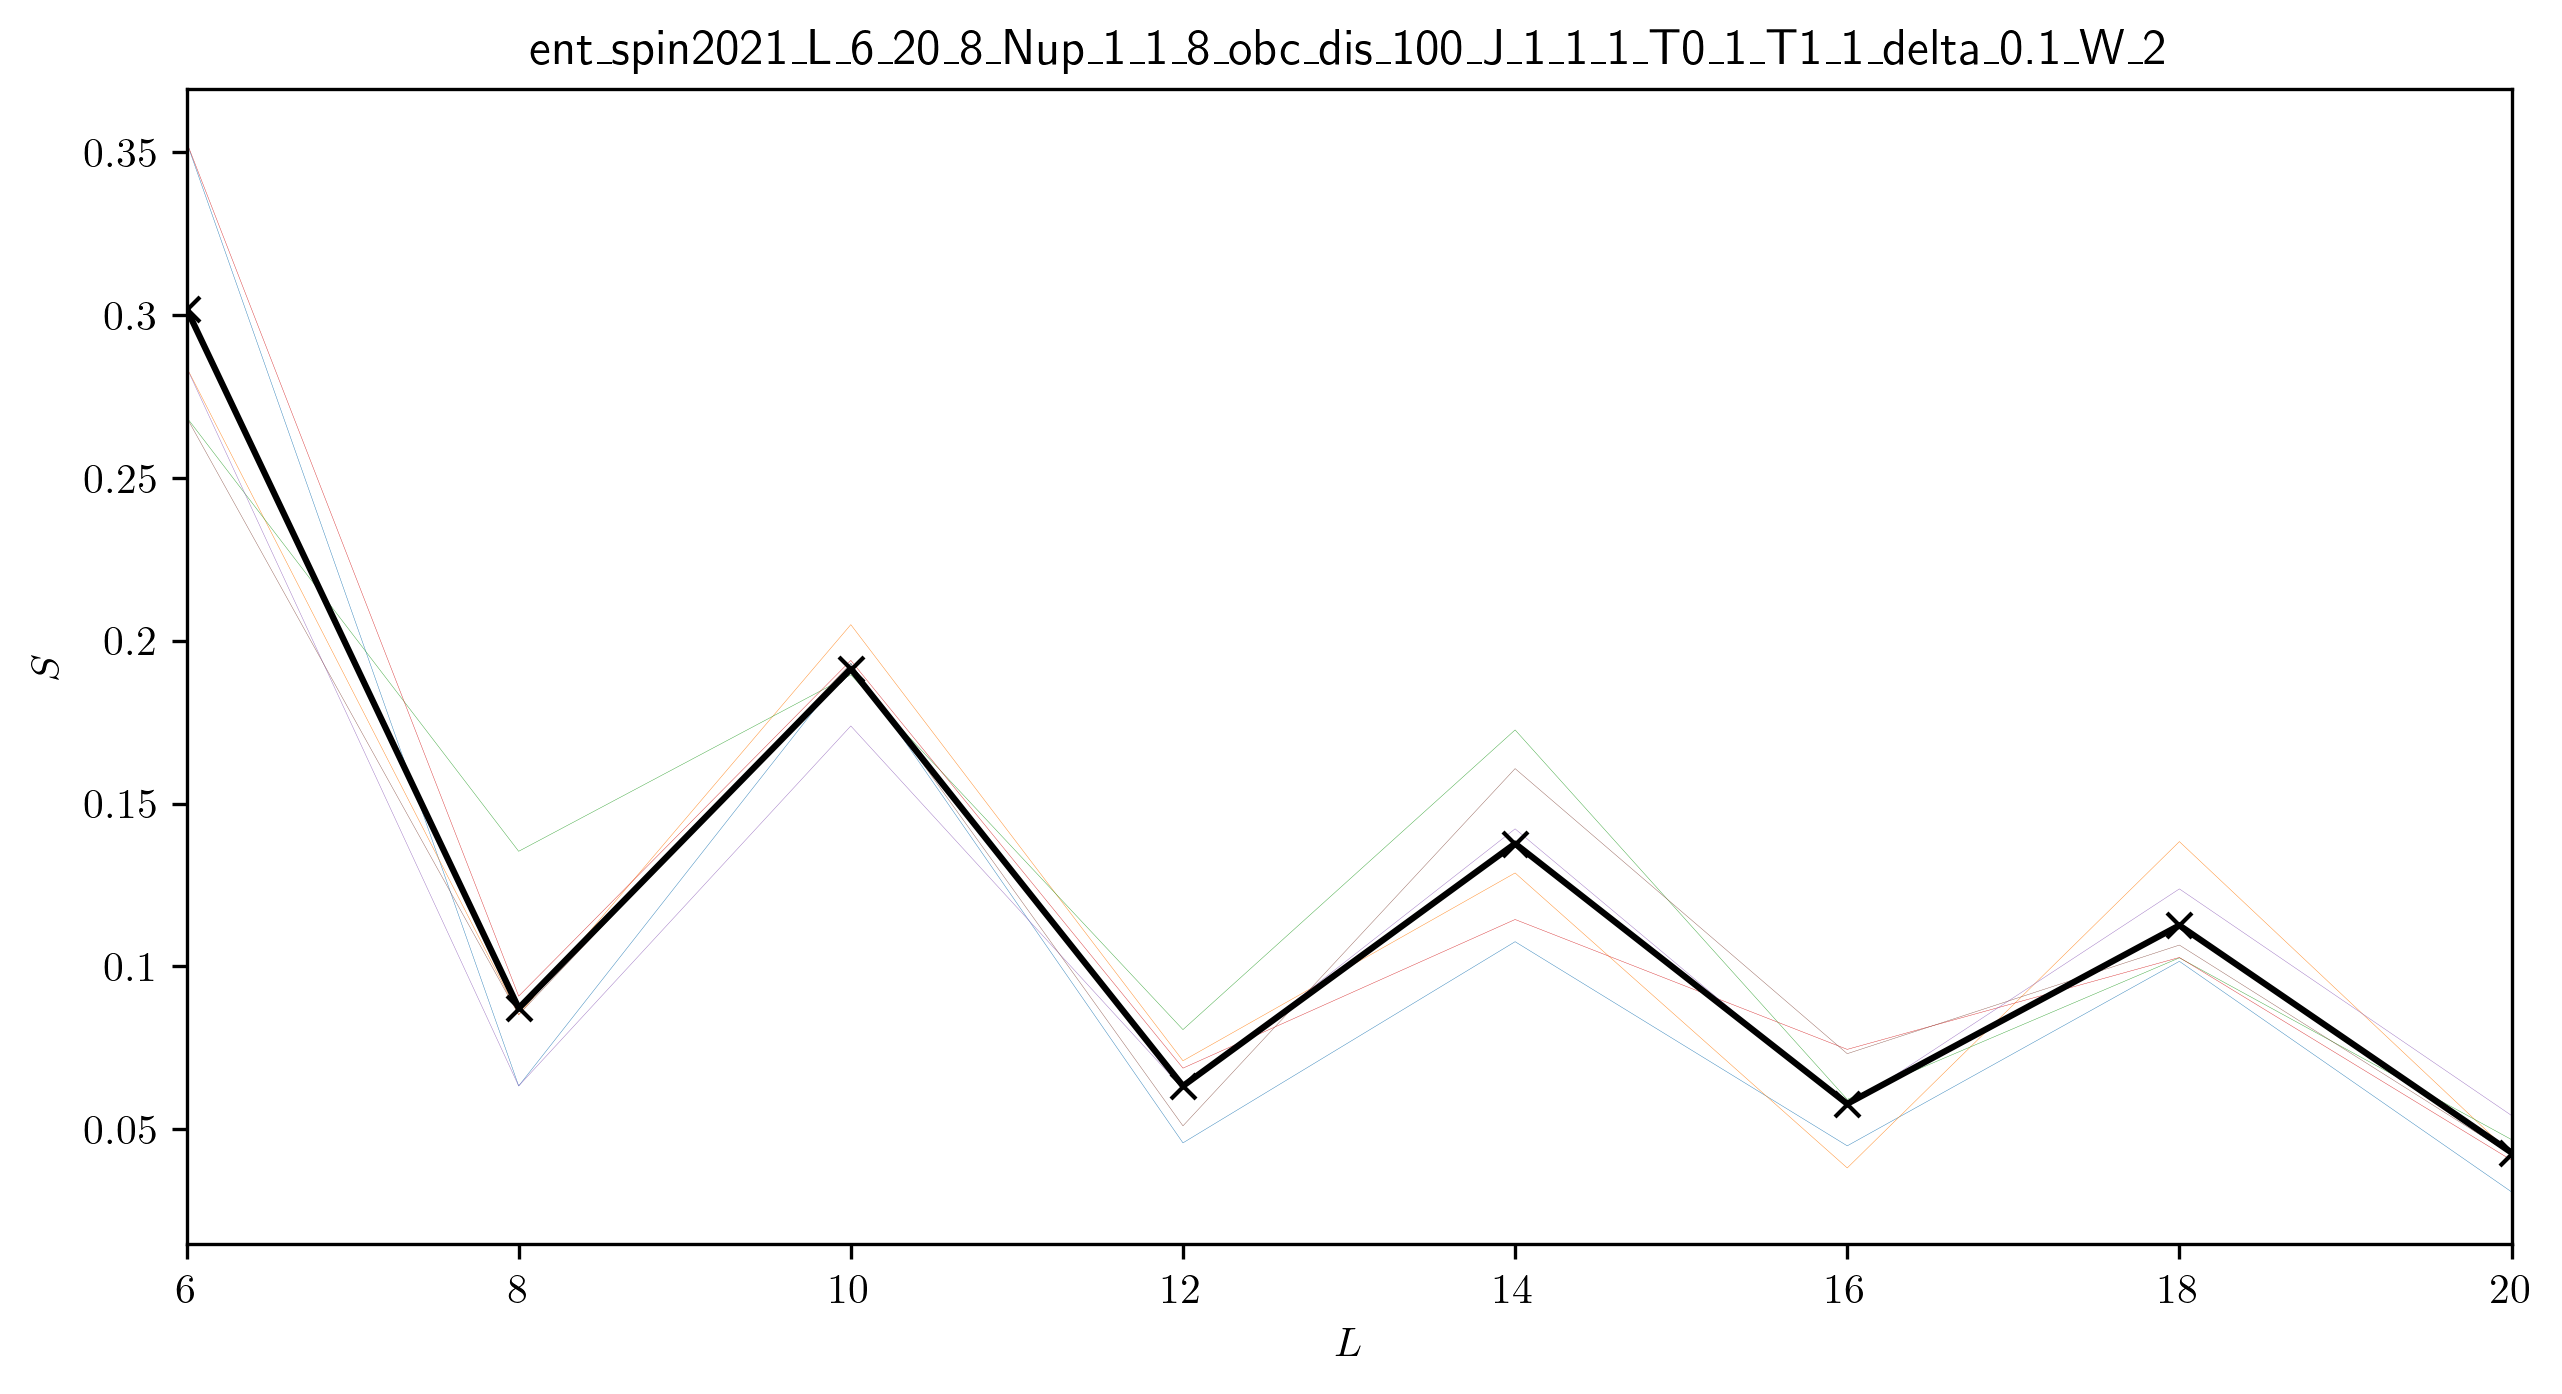
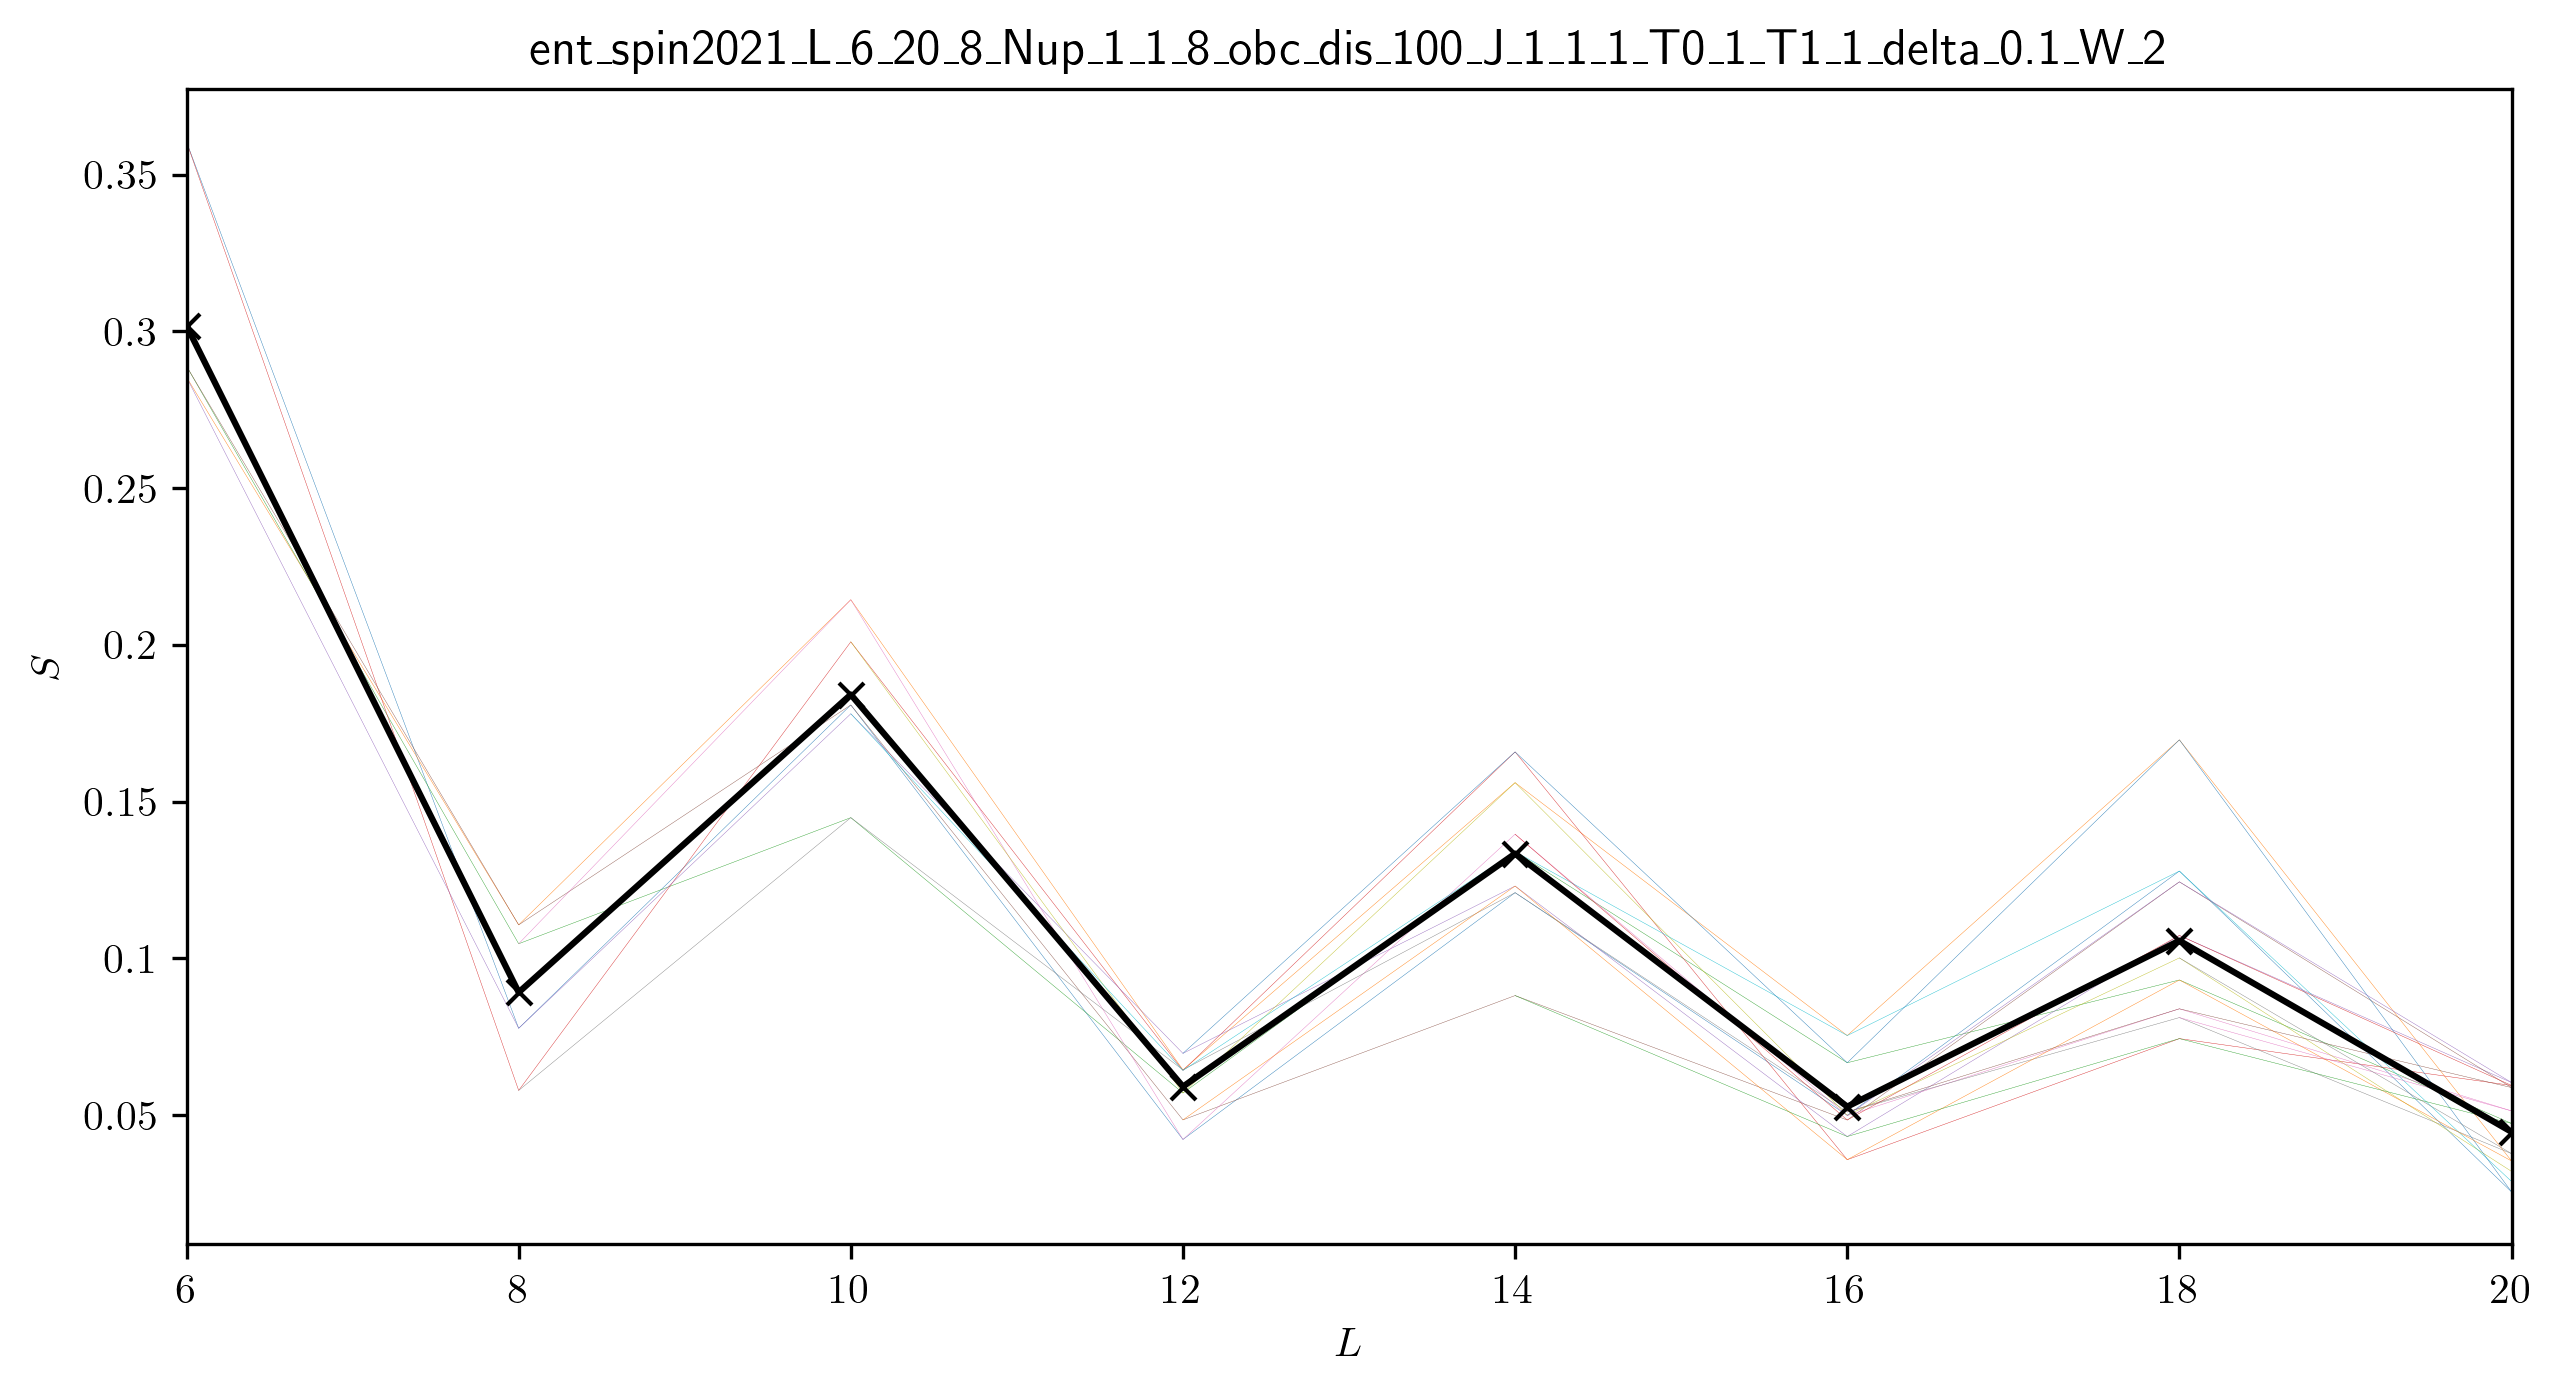
fixed ent_L_flow

diff --git a/plot/ent_L_flow.py b/plot/ent_L_flow.py
@@ -17,6 +17,8 @@ def plot_ent_L_flow(_model, _file1, _file2=None, _file3=None, _file4=None, _mult
         plots = csv.reader(csvfile, delimiter='\t')
         nrow = len(list(plots))
         csvfile.seek(0)
+        for j in range(nrow-1):  # find number of columns in last row
+            next(plots)
         ncol = len(next(plots))-1
         csvfile.seek(0)
         L = []
@@ -24,8 +26,15 @@ def plot_ent_L_flow(_model, _file1, _file2=None, _file3=None, _file4=None, _mult
         for i, row in enumerate(plots):
             L.append(float(row[0]))
             for j in range(ncol):
-                ent[i][j] = float(row[j+1])
-        mean_ent = np.mean(ent, axis=1)
+                if j+1 > len(row)-1:
+                    ent[i][j] = None
+                else:
+                    ent[i][j] = float(row[j+1])
+
+    mean_ent = []
+    for i in range(nrow):
+        ent_strip = ent[i, 1:]
+        mean_ent.append(np.mean(ent_strip[np.logical_not(np.isnan(ent_strip))]))
 
     plt.figure(figsize=(10, 5))
     ax0 = plt.subplot(111)
@@ -109,9 +118,9 @@ def plot_ent_L_flow(_model, _file1, _file2=None, _file3=None, _file4=None, _mult
 if __name__ == "__main__":
 
     model = 'spin2021'
-    file1 = 'ent_L_flow_spin2021_L_8_24_5_Nup_4_12_5_obc_dis_10_J_1_1_1_T0_1_T1_1_delta_0.1_W_2.dat'
+    file1 = 'ent_L_flow_spin2021_L_6_20_8_Nup_1_1_8_obc_dis_100_J_1_1_1_T0_1_T1_1_delta_0.1_W_2.dat'
     # file2 = 'ent_L_flow_spin2021_L_8_obc_dis_100_J_1_1_1_T0_1_T1_1_delta_0_1_11_W_2.dat'
     # file3 = 'ent_L_flow_spin2021_L_10_obc_dis_100_J_1_1_1_T0_1_T1_1_delta_0_1_11_W_2.dat'
     # file4 = 'ent_L_flow_spin2021_L_12_obc_dis_100_J_1_1_1_T0_1_T1_1_delta_0_1_11_W_2.dat'
 
-    plot_ent_L_flow(model, file1, _multi=True, _save=False)
+    plot_ent_L_flow(model, file1, _multi=True, _save=True)

diff --git a/code/L_flow.py b/code/L_flow.py
@@ -155,10 +155,10 @@ def my_L_flow(path_flag, threads, model, _leaf_args):
 
         ent_array = array[:, 0, :]
 
-        new_ent_array = np.zeros((np.shape(ent_array)[0], np.shape(ent_array)[1], len(ent_array[0][0])), dtype=float)
+        new_ent_array = np.zeros((np.shape(ent_array)[0], np.shape(ent_array)[1], len(ent_array[0][-1])), dtype=float)
         for disorder in range(np.shape(ent_array)[0]):
             for samp in range(np.shape(ent_array)[1]):
-                for state in range(len(ent_array[0][0])):
+                for state in range(len(ent_array[0][samp])):
                     new_ent_array[disorder, samp, state] = ent_array[disorder][samp][state]
 
         ent = np.mean(new_ent_array, axis=0)
@@ -166,7 +166,10 @@ def my_L_flow(path_flag, threads, model, _leaf_args):
         for samp in range(np.shape(ent)[0]):
             string = f"{L_list[samp]:g}"
             for state in range(np.shape(ent)[1]):
-                string += f"\t{ent[samp][state]}"
+                if ent[samp][state] != 0.0:
+                    string += f"\t{ent[samp][state]}"
+                else:
+                    continue
             data['ent_L_flow'].write(f"{string}\n")
 
     print(f"Total time taken (seconds) = {perf_counter()-t0:.1f}")
